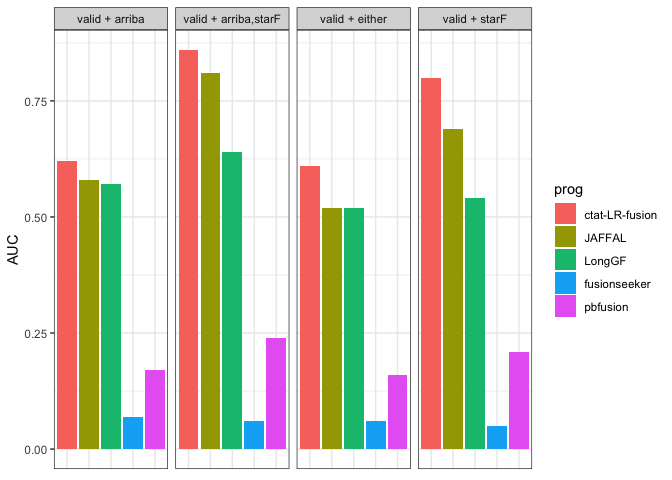
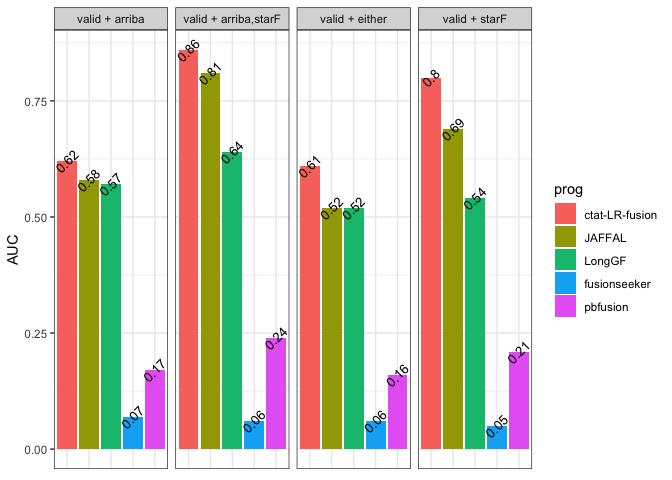
added value labels

diff --git a/6.SGNEx_ONT_cell_lines/6.3.SGNex_Illumina_benchmarking/default_mode/valid_plus_Illum_TP_uniq_FP_summary.md b/6.SGNEx_ONT_cell_lines/6.3.SGNex_Illumina_benchmarking/default_mode/valid_plus_Illum_TP_uniq_FP_summary.md
@@ -90,7 +90,8 @@ illum_fusion_acc_barplot = PR_AUC_df %>%
     theme_bw() +
     theme(axis.title.x=element_blank(),
         axis.text.x=element_blank(),
-        axis.ticks.x=element_blank())
+        axis.ticks.x=element_blank()) +
+     geom_text(position=position_dodge(width=0.75), aes(label=AUC), angle=45, size=rel(3.5))
 
 illum_fusion_acc_barplot 
 ```
